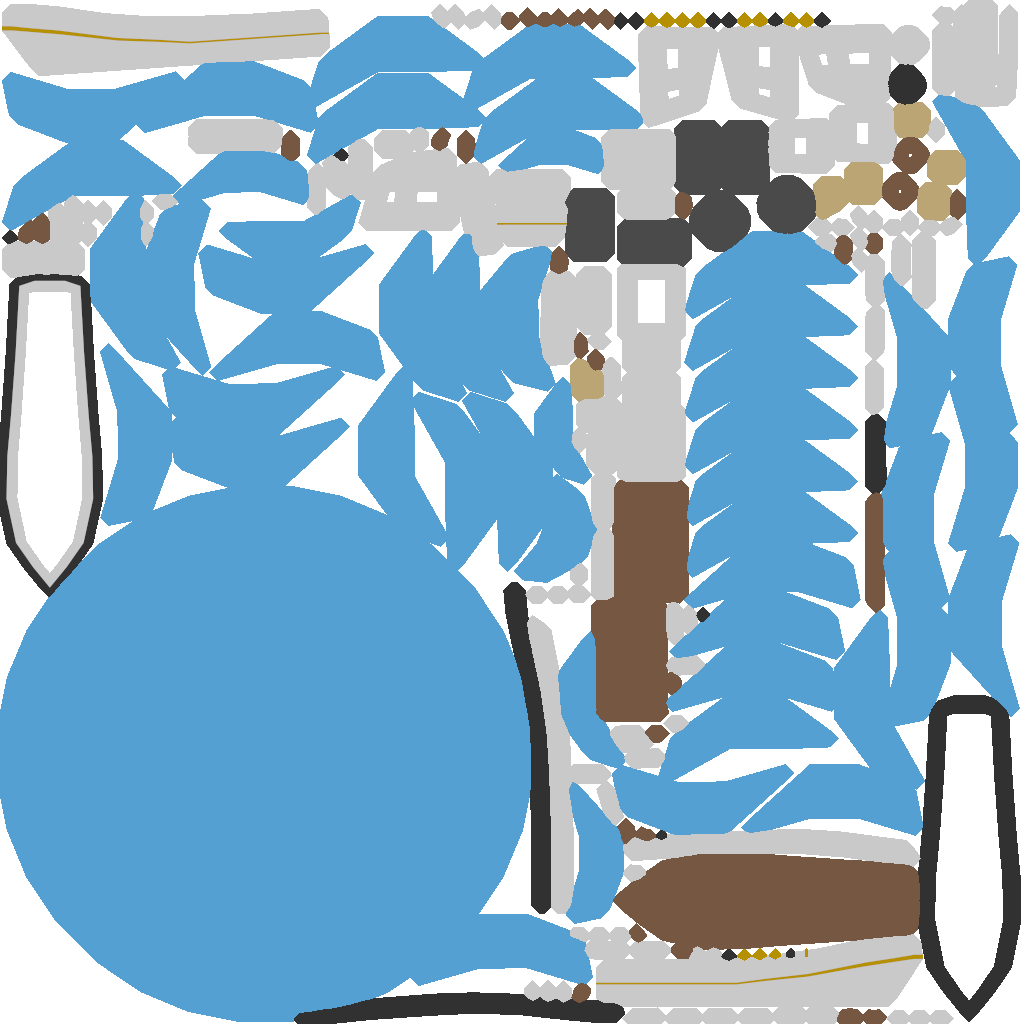
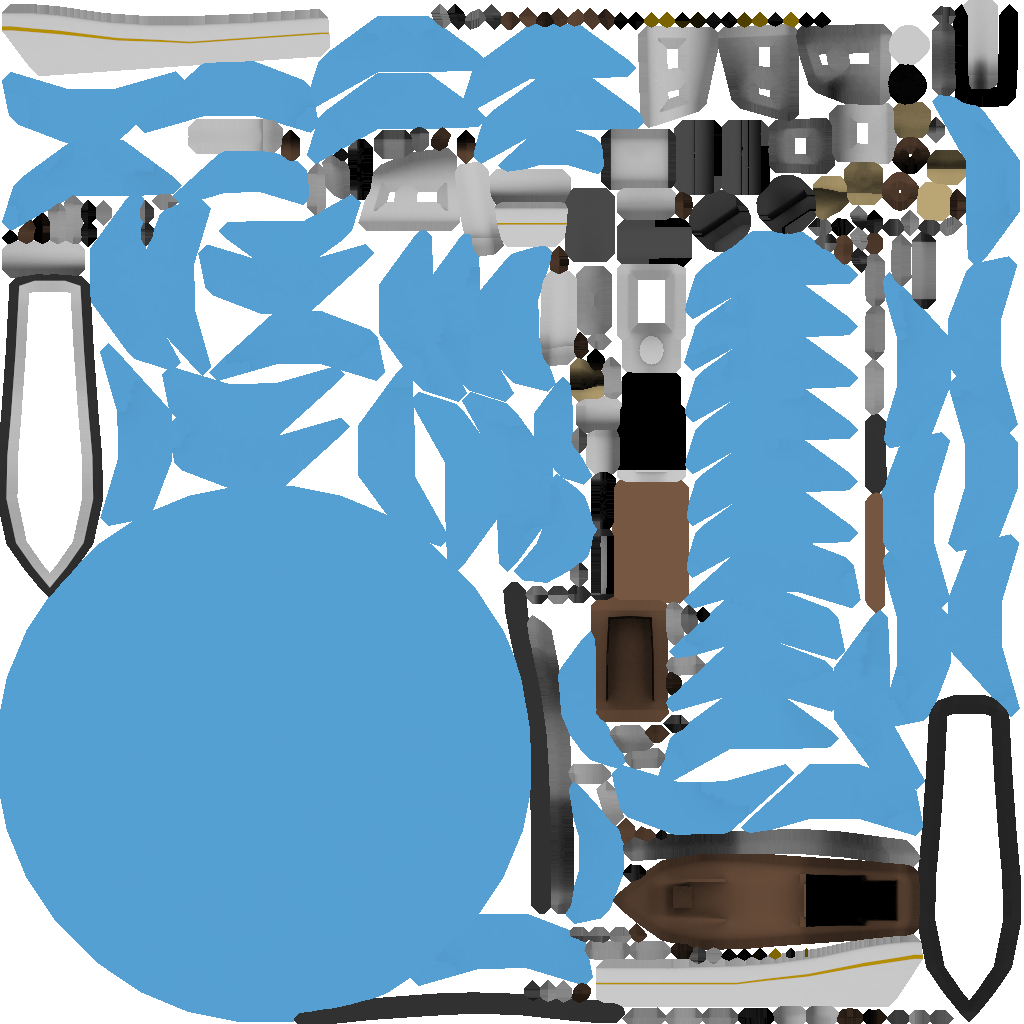
first lighting setup, Ao baked in diffusemap

diff --git a/src/js/boot.js b/src/js/boot.js
@@ -1,14 +1,14 @@
 import * as THREE from 'three'
 
-const skyColor = 0xc5e83b0
-const groundColor = 0x3c4652
-const hemisPhereIntensity = 1
-const directionalColor = 0xfffef4
-const directionalIntensity = 0.5
+const skyColor = 0xdde8fd
+const groundColor = 0x949baa
+const hemisPhereIntensity = 1.9
+const directionalColor = 0xfdf4dd
+const directionalIntensity = 1.2
 const directionalLightPosition = {
-  x: 1,
+  x: 5,
   y: 1,
-  z: 1,
+  z: -10,
 }
 
 
@@ -24,8 +24,8 @@ const createBootSzene = async () => {
   const material = new THREE.MeshStandardMaterial({
     map: bootSzeneTexture,
     aoMap: bootSzeneAO,
-    roughness: 5,
-    aoMapIntensity: .5,
+    roughness: 1,
+    aoMapIntensity: 0.0,
   })
   scene.children.forEach(mesh => {
     mesh.material = material
